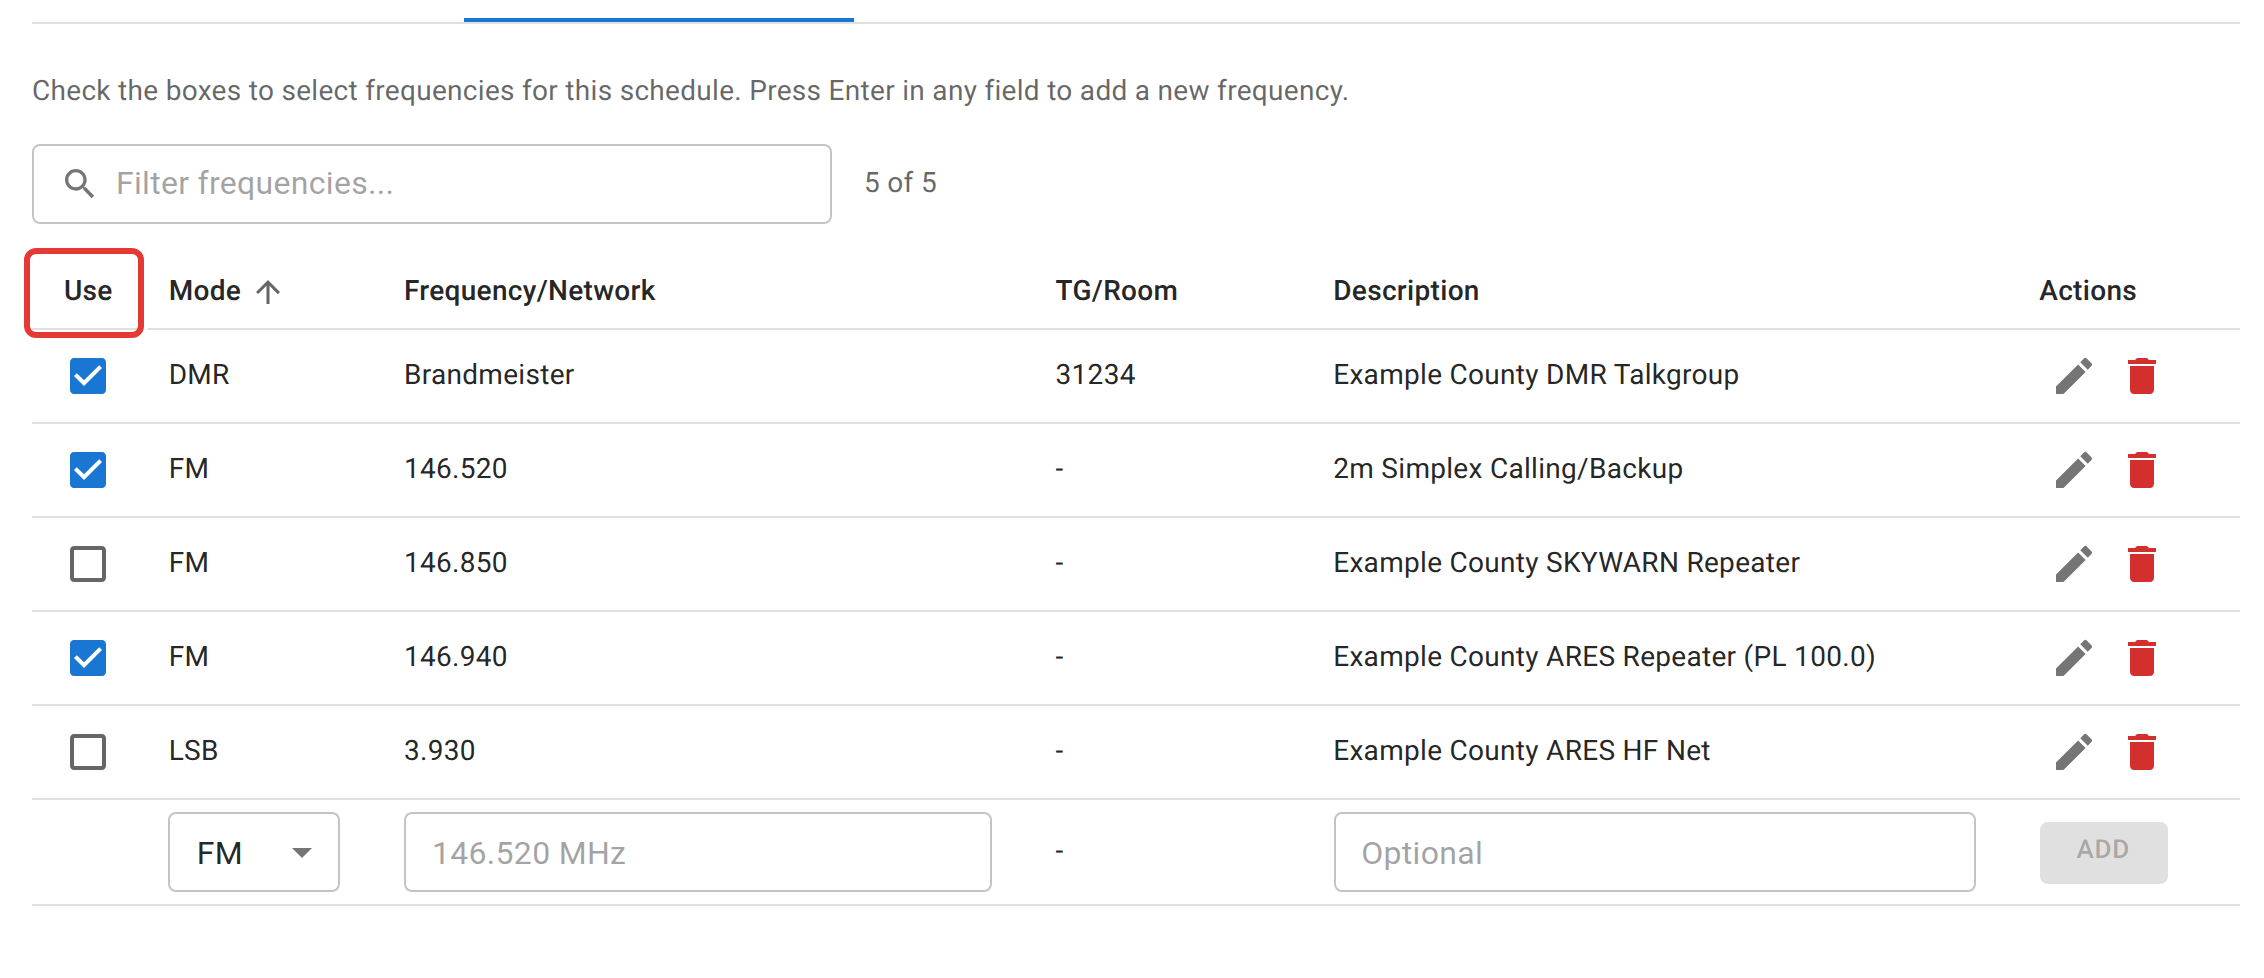
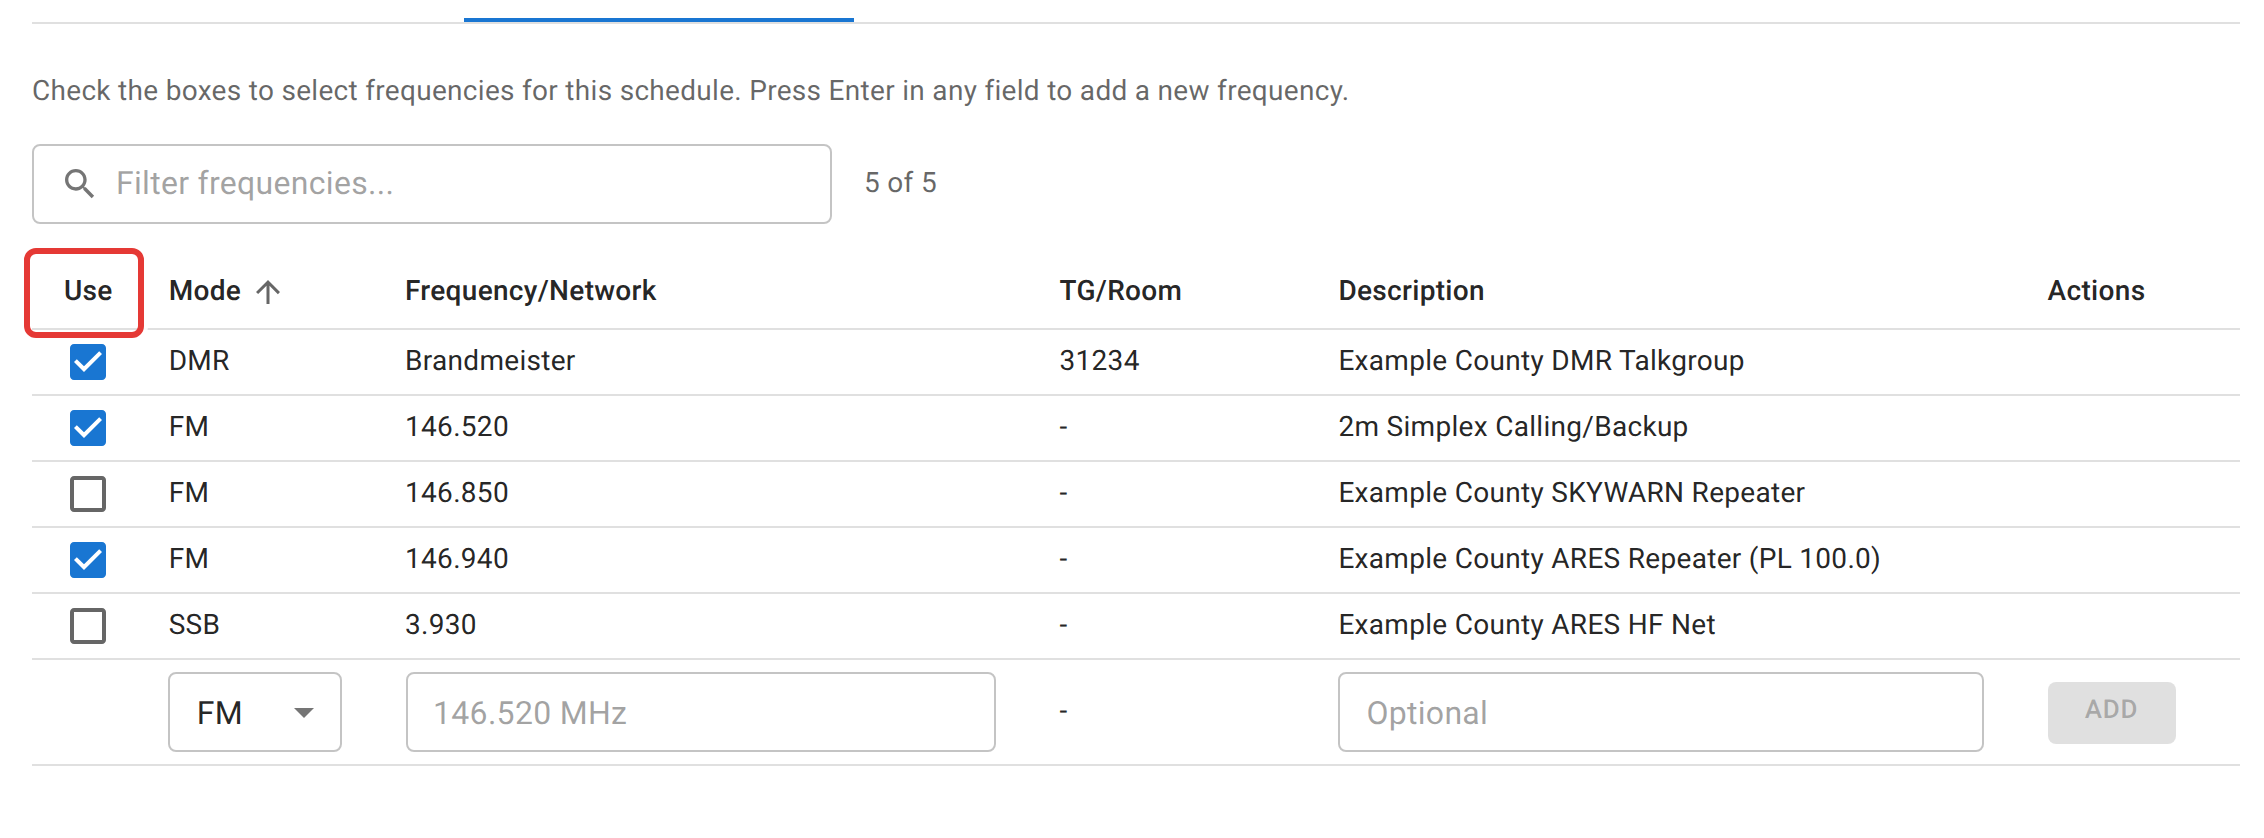
Frequencies: check the mode on input only, so older rows still load
The mode list was enforced on FrequencyBase, which the response schemas
share, so a single stored row with a since-dropped mode failed every
frequency list and net response. Caught by the demo seed's LSB entry
(production has none: FM, DMR, SSB, YSF only). The seed now uses SSB, and
the Communication Plan figure is recaptured without edit/delete icons.

Claude-Session: https://claude.ai/code/session_01Dz2y8UqRYDV67EQZaZUje3

diff --git a/backend/app/schemas.py b/backend/app/schemas.py
@@ -392,13 +392,18 @@ FREQUENCY_MODE_PATTERN = "^(" + "|".join(re.escape(m) for m in FREQUENCY_MODES) 
 
 class FrequencyBase(BaseModel):
     frequency: Optional[str] = Field(None, max_length=50)
-    mode: str = Field(max_length=20, pattern=FREQUENCY_MODE_PATTERN)
+    # Validated against FREQUENCY_MODES on input only (FrequencyCreate), so a
+    # row saved under an older list still loads instead of failing the whole
+    # frequency list.
+    mode: str = Field(max_length=20)
     network: Optional[str] = Field(None, max_length=100)  # e.g., "Wires-X", "Brandmeister", "REF030C"
     talkgroup: Optional[str] = Field(None, max_length=50)  # e.g., "31665", "Room 12345"
     description: Optional[str] = Field(None, max_length=500)
 
 
 class FrequencyCreate(FrequencyBase):
+    mode: str = Field(max_length=20, pattern=FREQUENCY_MODE_PATTERN)
+
     @model_validator(mode='after')
     def validate_freq_or_network(self):
         """Ensure either frequency or network is provided."""

diff --git a/backend/scripts/seed_demo_data.py b/backend/scripts/seed_demo_data.py
@@ -229,7 +229,7 @@ async def _build(db_path: Path, out_path: Path):
         f_simplex = Frequency(frequency="146.520", mode="FM", description="2m Simplex Calling/Backup")
         f_dmr = Frequency(mode="DMR", network="Brandmeister", talkgroup="31234", description="Example County DMR Talkgroup")
         f_skywarn = Frequency(frequency="146.850", mode="FM", description="Example County SKYWARN Repeater")
-        f_hf = Frequency(frequency="3.930", mode="LSB", description="Example County ARES HF Net")
+        f_hf = Frequency(frequency="3.930", mode="SSB", description="Example County ARES HF Net")
         db.add_all([f_repeater, f_simplex, f_dmr, f_skywarn, f_hf])
         await db.commit()
         for f in (f_repeater, f_simplex, f_dmr, f_skywarn, f_hf):

diff --git a/backend/tests/test_frequency_modes.py b/backend/tests/test_frequency_modes.py
@@ -39,3 +39,15 @@ async def test_unknown_mode_is_refused(client, owner):
         headers=auth_headers(owner),
     )
     assert r.status_code == 422
+
+
+async def test_a_row_saved_under_an_older_mode_list_still_loads(client, db):
+    """The mode check applies to input only. It sat on the shared base schema
+    at first, so one row with a since-dropped mode (the demo seed's LSB)
+    failed every frequency list response."""
+    from app.models import Frequency
+    db.add(Frequency(frequency="3.930", mode="LSB"))
+    await db.commit()
+    r = await client.get("/api/frequencies")
+    assert r.status_code == 200
+    assert [f["mode"] for f in r.json()] == ["LSB"]
